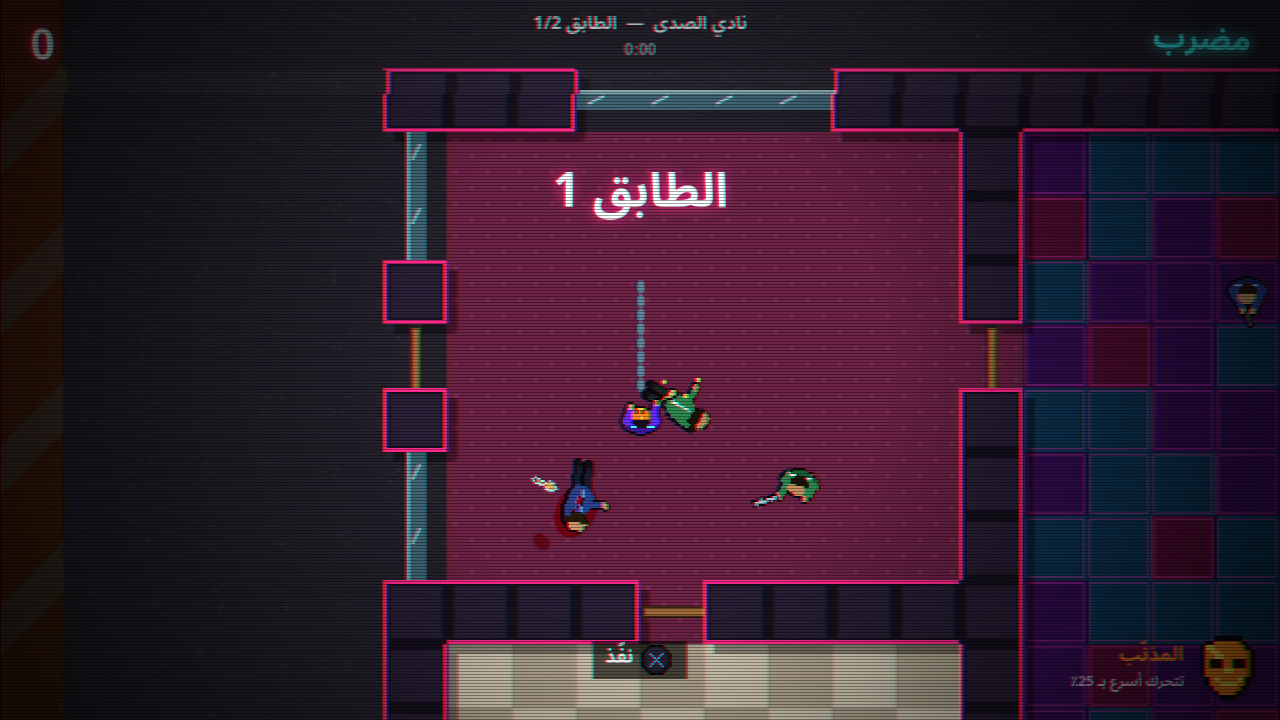
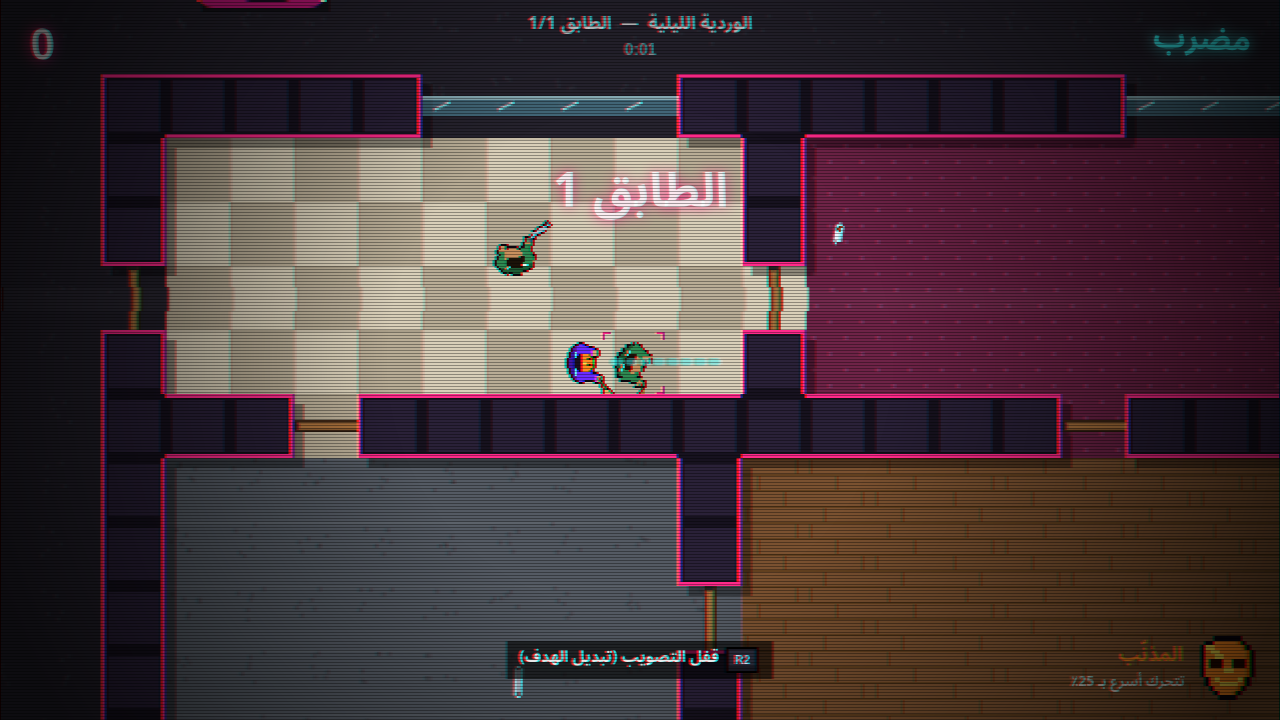
Classic PlayStation layout (R1 attack, L1 grab/throw, R2/□ lock-on, L2 look), lock-on, layout setting

diff --git a/js/ui.js b/js/ui.js
@@ -1,6 +1,6 @@
 // ===== UI: menus, HUD, post effects, main loop =====
 const SAVE_KEY = 'neonVendetta.save.v1';
-const Settings = { music: 0.7, sfx: 0.8, lang: 'ar', fx: true, shake: 1, aimAssist: true };
+const Settings = { music: 0.7, sfx: 0.8, lang: 'ar', fx: true, shake: 1, aimAssist: true, padLayout: 'classic' };
 const Save = { unlocked: 1, best: {}, mask: 0 };
 (function load() { try { const d = JSON.parse(localStorage.getItem(SAVE_KEY) || '{}'); if (d.settings) Object.assign(Settings, d.settings); if (d.unlocked) Save.unlocked = d.unlocked; if (d.best) Save.best = d.best; if (d.mask != null) Save.mask = d.mask; } catch (e) { } })();
 function persist() { try { localStorage.setItem(SAVE_KEY, JSON.stringify({ settings: Settings, unlocked: Save.unlocked, best: Save.best, mask: Save.mask })); } catch (e) { } }
@@ -63,13 +63,17 @@ function prompt(c, glyphs, label, cx, cy, size) {
   else { for (const g of glyphs) x += drawGlyph(c, g, x, cy) + 4; txt(c, label, x + gap, cy, size, '#fff', 'left'); }
 }
 const BINDS = {
-  pickup: { kb: ['E'], xbox: ['xX'], ps: ['pS'] }, execute: { kb: ['SPACE'], xbox: ['xA'], ps: ['pX'] },
-  restart: { kb: ['R'], xbox: ['xY'], ps: ['pT'] }, throwW: { kb: ['RMB'], xbox: ['LT'], ps: ['L2'] },
   confirm: { kb: ['ENTER'], xbox: ['xA'], ps: ['pX'] }, back: { kb: ['ESC'], xbox: ['xB'], ps: ['pO'] },
-  dodge: { kb: ['CTRL'], xbox: ['xB'], ps: ['pO'] }, map: { kb: ['TAB'], xbox: ['VIEW'], ps: ['TOUCHPAD'] },
-  pause: { kb: ['ESC'], xbox: ['START'], ps: ['OPTIONS'] }, attack: { kb: ['LMB'], xbox: ['RT'], ps: ['R2'] },
+  execute: { kb: ['SPACE'], xbox: ['xA'], ps: ['pX'] }, dodge: { kb: ['CTRL'], xbox: ['xB'], ps: ['pO'] },
+  map: { kb: ['TAB'], xbox: ['VIEW'], ps: ['TOUCHPAD'] }, pause: { kb: ['ESC'], xbox: ['START'], ps: ['OPTIONS'] },
+  // layout dependent
+  pickup: { kb: ['E'], xbox: ['xX'], ps: ['pS'], c_xbox: ['LB'], c_ps: ['L1'] },
+  throwW: { kb: ['RMB'], xbox: ['LT'], ps: ['L2'], c_xbox: ['LB'], c_ps: ['L1'] },
+  attack: { kb: ['LMB'], xbox: ['RT'], ps: ['R2'], c_xbox: ['RB'], c_ps: ['R1'] },
+  restart: { kb: ['R'], xbox: ['xY'], ps: ['pT'], c_xbox: ['xA'], c_ps: ['pX'] },
+  lock: { kb: ['F'], xbox: ['RS'], ps: ['R3'], c_xbox: ['RT'], c_ps: ['R2'] },
 };
-const BIND = new Proxy({}, { get: (_, k) => () => BINDS[k][Input.dev()] });
+const BIND = new Proxy({}, { get: (_, k) => () => { const d = Input.dev(), b = BINDS[k]; return (d !== 'kb' && Input.classic() && b['c_' + d]) || b[d]; } });
 
 // ---- post FX
 const FX = {
@@ -294,9 +298,10 @@ const UI = {
       { label: () => L('fx') + ':  ' + onoff(Settings.fx), adjust: tog('fx'), act: tog('fx') },
       { label: () => L('shake') + ':  ' + onoff(Settings.shake), adjust: tog('shake'), act: tog('shake') },
       { label: () => L('aimAssist') + ':  ' + onoff(Settings.aimAssist), adjust: tog('aimAssist'), act: tog('aimAssist') },
+      { label: () => L('padLayout') + ':  ' + (Settings.padLayout === 'alt' ? L('layoutAlt') : L('layoutClassic')), adjust: () => { Settings.padLayout = Settings.padLayout === 'alt' ? 'classic' : 'alt'; persist(); }, act: () => { Settings.padLayout = Settings.padLayout === 'alt' ? 'classic' : 'alt'; persist(); } },
       { label: () => L('back'), act: () => this.handleBack() },
     ];
-    menuList(c, items, 0, SW / 2, 190, 64, 28, t);
+    menuList(c, items, 0, SW / 2, 170, 58, 27, t);
     txt(c, Settings.lang === 'ar' ? '← → للتعديل' : '← → to adjust', SW / 2, 650, 16, '#aaa');
     if (Input.back()) { AudioSys.sfx('menuBack'); this.handleBack(); }
   },
@@ -324,7 +329,7 @@ const UI = {
   game(c, t, dt) {
     if (Input.pausePressed()) { AudioSys.sfx('menuBack'); this.go('pause'); this.drawGameFrozen(c); return; }
     if (Input.mapPressed() && G.status === 'play') { AudioSys.sfx('menuOk'); this.go('map'); this.drawGameFrozen(c); return; }
-    if (Input.restartPressed() && G.status !== 'complete') { G.restartFloor(); AudioSys.muffle(false); this.lastMuff = false; }
+    if ((Input.restartPressed() || (G.status === 'dead' && Input.bp(0))) && G.status !== 'complete') { G.restartFloor(); AudioSys.muffle(false); this.lastMuff = false; }
     if (G.status !== 'complete' || true) G.update(dt);
     G.draw(c, SW, SH);
     this.hud(c, t, dt);
@@ -368,6 +373,7 @@ const UI = {
     if (G.status === 'play' && p.alive && !p.exec) {
       const dn = G.nearestDowned(), pk = G.nearestPickup();
       if (dn) prompt(c, BIND.execute(), L('execute'), SW / 2, SH - 60);
+      else if (G.lock) prompt(c, BIND.lock(), L('c_lock'), SW / 2, SH - 60, 16);
       else if (pk) prompt(c, BIND.pickup(), (p.weapon ? L('swap') : L('pickup')) + ' — ' + L(pk.type), SW / 2, SH - 60);
     }
     if (G.cleared && G.status === 'play') {
@@ -455,16 +461,18 @@ const UI = {
     if (Input.navRight()) { this.ctrlView = views[(views.indexOf(this.ctrlView) + 1) % 3]; AudioSys.sfx('menuMove'); }
     if (Input.navLeft()) { this.ctrlView = views[(views.indexOf(this.ctrlView) + 2) % 3]; AudioSys.sfx('menuMove'); }
     const v = this.ctrlView, ar = Settings.lang === 'ar';
-    txt(c, L('controls') + ' — ' + (v === 'ps' ? L('ps') : v === 'xbox' ? L('xbox') : L('kb')), SW / 2, 48, 36, '#fff', 'center', '#ff2a8a');
+    txt(c, L('controls') + ' — ' + (v === 'ps' ? L('ps') : v === 'xbox' ? L('xbox') : L('kb')) + (v !== 'kb' ? '  (' + (Input.classic() ? L('layoutClassic') : L('layoutAlt')) + ')' : ''), SW / 2, 48, 32, '#fff', 'center', '#ff2a8a');
     txt(c, L('viewToggle'), SW / 2, 86, 16, '#aaa');
     if (v === 'ps') this.psDiagram(c, t);
     else {
       const rows = v === 'kb'
         ? [['c_move', 'W A S D'], ['c_aim', 'MOUSE'], ['c_attack', 'LMB'], ['c_throw', 'RMB / Q'], ['c_pick', 'E / RMB'], ['c_exec', 'SPACE'], ['c_restart', 'R'], ['c_dodge', 'CTRL / C'], ['c_look', 'SHIFT'], ['c_map', 'TAB / M'], ['c_pause', 'ESC / P']]
-        : [['c_move', 'LS'], ['c_aim', 'RS'], ['c_attack', 'RT'], ['c_throw', 'LT'], ['c_pick', 'xX'], ['c_exec', 'xA'], ['c_restart', 'xY'], ['c_dodge', 'xB'], ['c_look', 'RB / LB'], ['c_map', 'VIEW'], ['c_pause', 'START']];
+        : Input.classic()
+          ? [['c_move', 'LS'], ['c_aim', 'RS'], ['c_attack', 'RB'], ['c_grab', 'LB'], ['c_lock', 'RT / xX'], ['c_look', 'LT'], ['c_exec', 'xA'], ['c_restart', 'xY'], ['c_dodge', 'xB'], ['c_map', 'VIEW'], ['c_pause', 'START']]
+          : [['c_move', 'LS'], ['c_aim', 'RS'], ['c_attack', 'RT'], ['c_throw', 'LT'], ['c_pick', 'xX'], ['c_exec', 'xA'], ['c_restart', 'xY'], ['c_dodge', 'xB'], ['c_look', 'RB / LB'], ['c_lock', 'RS'], ['c_map', 'VIEW'], ['c_pause', 'START']];
       const colA = ar ? 820 : 460, colB = ar ? 460 : 820;
       rows.forEach((r, i) => {
-        const y = 130 + i * 46;
+        const y = 126 + i * 43;
         c.fillStyle = i % 2 ? 'rgba(255,255,255,0.04)' : 'rgba(255,42,138,0.07)'; c.fillRect(240, y - 21, 800, 42);
         txt(c, L(r[0]), colA, y, 21, '#fff');
         const parts = v === 'kb' ? [r[1]] : r[1].split(' / '); const total = parts.reduce((s, p) => s + glyphW(c, p) + 8, 0); let x = colB - total / 2;
@@ -497,10 +505,14 @@ const UI = {
     // face symbols on the diagram
     const face = [['pT', 64, 12], ['pO', 68, 16], ['pX', 64, 20], ['pS', 60, 16]];
     for (const [g, x, y] of face) { const [sx, sy] = at(x, y); c.save(); c.imageSmoothingEnabled = false; c.drawImage(psButtonCanvas(g), sx - 15, sy - 15 + 3, 30, 30); c.restore(); }
-    const lab = [
-      ['L2', 21, 3, 'c_throw', 'L', 120], ['L1', 21, 7, 'c_look', 'L', 165], ['LS', 31, 28, 'c_move', 'L', 520], ['TOUCHPAD', 41, 13, 'c_map', 'T', 0],
-      ['R2', 61, 3, 'c_attack', 'R', 120], ['R1', 61, 7, 'c_look', 'R', 165], ['pT', 64, 12, 'c_restart', 'R', 225], ['pO', 68, 16, 'c_dodge', 'R', 285],
-      ['pX', 64, 20, 'c_exec', 'R', 345], ['pS', 60, 16, 'c_pick', 'R', 405], ['OPTIONS', 56, 11, 'c_pause', 'R', 465], ['RS', 51, 28, 'c_aim', 'R', 520],
+    const lab = Input.classic() ? [
+      ['L2', 21, 3, 'c_look', 'L', 120], ['L1', 21, 7, 'c_grab', 'L', 170], ['LS', 31, 28, 'c_move', 'L', 520], ['TOUCHPAD', 41, 13, 'c_map', 'T', 0],
+      ['R2', 61, 3, 'c_lock', 'R', 120], ['R1', 61, 7, 'c_attack', 'R', 170], ['pT', 64, 12, 'c_restart', 'R', 225], ['pO', 68, 16, 'c_dodge', 'R', 285],
+      ['pX', 64, 20, 'c_execR', 'R', 345], ['pS', 60, 16, 'c_lock', 'R', 405], ['OPTIONS', 56, 11, 'c_pause', 'R', 465], ['RS', 51, 28, 'c_aim', 'R', 520],
+    ] : [
+      ['L2', 21, 3, 'c_throw', 'L', 120], ['L1', 21, 7, 'c_look', 'L', 170], ['LS', 31, 28, 'c_move', 'L', 520], ['TOUCHPAD', 41, 13, 'c_map', 'T', 0],
+      ['R2', 61, 3, 'c_attack', 'R', 120], ['R1', 61, 7, 'c_look', 'R', 170], ['pT', 64, 12, 'c_restart', 'R', 225], ['pO', 68, 16, 'c_dodge', 'R', 285],
+      ['pX', 64, 20, 'c_exec', 'R', 345], ['pS', 60, 16, 'c_pick', 'R', 405], ['OPTIONS', 56, 11, 'c_pause', 'R', 465], ['RS', 51, 28, 'c_aimLock', 'R', 520],
     ];
     c.strokeStyle = 'rgba(63,252,255,0.6)'; c.lineWidth = 2;
     for (const [g, gx, gy, key, side, ly] of lab) {

diff --git a/js/game.js b/js/game.js
@@ -33,7 +33,7 @@ const G = {
     const H = this.H = rows.length, W = this.W = rows[0].length;
     this.tiles = new Uint8Array(W * H); this.style = new Array(W * H).fill('.');
     this.doors = []; this.enemies = []; this.pickups = []; this.bullets = []; this.thrown = []; this.particles = []; this.floaters = [];
-    this.combo = 0; this.comboTimer = 0; this.cleared = false; this.status = 'play'; this.shake = 0; this.flash = 0;
+    this.combo = 0; this.comboTimer = 0; this.cleared = false; this.lock = null; this.status = 'play'; this.shake = 0; this.flash = 0;
     this.floorStart = { score: this.score, kills: this.kills };
     this.outdoorStart = false;
     const nstyle = (x, y) => { for (const [dx, dy] of [[-1, 0], [1, 0], [0, -1], [0, 1], [-1, -1], [1, 1]]) { const r = rows[y + dy]; const c = r && r[x + dx]; if (c && FLOORS.includes(c)) return c; } return '.'; };
@@ -401,6 +401,8 @@ const G = {
         if (Input.pickupPressed()) this.pickUp();
         if (right) { if (p.weapon) this.throwWeapon(); else this.pickUp(); }
         if (Input.throwPressed()) { if (p.weapon) this.throwWeapon(); }
+        if (Input.grabPressed()) { if (p.weapon) this.throwWeapon(); else this.pickUp(); }
+        if (Input.lockPressed()) this.cycleLock();
         if (Input.executePressed()) { const d = this.nearestDowned(); if (d) this.startExec(d); }
         if (!p.exec && (Input.attackHeld() || Input.attackPressed())) this.playerAttack();
       }
@@ -432,7 +434,24 @@ const G = {
     for (const f of this.floaters) { f.life -= dt; f.y -= 24 * dt; }
     this.floaters = this.floaters.filter(f => f.life > 0);
   },
+  lockCandidates() {
+    const p = this.player, out = [];
+    for (const e of this.enemies) {
+      if (e.state === 'dead') continue; const d = Math.hypot(e.x - p.x, e.y - p.y); if (d > 460) continue;
+      if (!this.clearLine(p.x, p.y, e.x, e.y)) continue;
+      out.push({ e, df: Math.abs(angDiff(Math.atan2(e.y - p.y, e.x - p.x), p.ang)) });
+    }
+    return out.sort((a, b) => a.df - b.df).map(o => o.e);
+  },
+  cycleLock() {
+    const c = this.lockCandidates();
+    if (!c.length) { this.lock = null; return; }
+    if (!this.lock || !c.includes(this.lock)) this.lock = c[0];
+    else { const i = c.indexOf(this.lock); this.lock = i + 1 < c.length ? c[i + 1] : null; }
+    AudioSys.sfx(this.lock ? 'menuMove' : 'menuBack'); if (this.lock) Input.rumble(0, 0.25, 40);
+  },
   updateAim(dt) {
+    if (this.lock && (this.lock.state === 'dead' || Math.hypot(this.lock.x - this.player.x, this.lock.y - this.player.y) > 520 || (Input.mode === 'kb' && Input.mouse.moved && !Input.k('KeyF')))) this.lock = null;
     const p = this.player, look = Input.lookHeld();
     let offX = 0, offY = 0;
     if (Input.mode === 'pad') {
@@ -440,9 +459,10 @@ const G = {
       let target = null;
       if (mag > 0.3) target = Math.atan2(ay, ax);
       else { const mv = Input.moveVec(); if (Math.hypot(mv.x, mv.y) > 0.3) target = Math.atan2(mv.y, mv.x); }
+      if (this.lock) target = Math.atan2(this.lock.y - p.y, this.lock.x - p.x);
       if (target !== null && p.alive && !p.exec) {
         // light aim assist: snap toward nearest visible enemy near stick direction
-        if (Settings.aimAssist) {
+        if (Settings.aimAssist && !this.lock) {
           let best = null, bd = 0.32;
           for (const e of this.enemies) {
             if (e.state === 'dead' || e.state === 'down') continue;
@@ -461,7 +481,7 @@ const G = {
       const sw = 1280, sh = 720;
       const mx = (Input.mouse.x - sw / 2) / ZOOM + this.cam.x, my = (Input.mouse.y - sh / 2) / ZOOM + this.cam.y;
       this.aimWorld = { x: mx, y: my };
-      if (p.alive && !p.exec) p.ang = Math.atan2(my - p.y, mx - p.x);
+      if (p.alive && !p.exec) p.ang = this.lock ? Math.atan2(this.lock.y - p.y, this.lock.x - p.x) : Math.atan2(my - p.y, mx - p.x);
       const sx = (Input.mouse.x - sw / 2) / ZOOM, sy = (Input.mouse.y - sh / 2) / ZOOM;
       const k = look ? 0.9 : 0.3; offX = sx * k; offY = sy * k;
     }

diff --git a/js/i18n.js b/js/i18n.js
@@ -20,6 +20,7 @@ const STR = {
     padConnected: 'تم توصيل يد التحكم', padDisconnected: 'انفصلت يد التحكم',
     theEnd: 'انتهت الليلة', thanks: 'شكراً إنك لعبت', boss: 'الزعيم',
     tip1: 'ضربة وحدة تكفي... لك وله.', tip2: 'افتح الباب بقوة عشان تطيّح اللي وراه.', tip3: 'صوت الرصاص يجيب الكل.',
+    c_grab: 'التقاط / رمي السلاح', c_lock: 'قفل التصويب (تبديل الهدف)', c_execR: 'إعدام / إعادة بعد الموت', c_aimLock: 'تصويب (R3 قفل)', padLayout: 'ترتيب أزرار اليد', layoutClassic: 'كلاسيكي', layoutAlt: 'بديل',
     c_dodge: 'تدحرج / تفادي', c_map: 'شاشة القناع والخريطة', masks: 'اختر القناع', mask: 'القناع', maskLocked: 'مقفل — خلّص مراحل أكثر عشان تفتحه',
     newMask: 'قناع جديد انفتح!', map: 'الخريطة', viewToggle: '◄ ► لتغيير العرض', choose: 'اختيار', ps: 'يد بلايستيشن', xbox: 'يد إكس بوكس', close: 'إغلاق',
     creditsText: 'لعبة أصلية مستوحاة من ألعاب الأكشن السريعة من منظور علوي. كل الرسوم والموسيقى مولّدة بالكود.',
@@ -44,6 +45,7 @@ const STR = {
     padConnected: 'CONTROLLER CONNECTED', padDisconnected: 'CONTROLLER DISCONNECTED',
     theEnd: 'THE NIGHT IS OVER', thanks: 'THANKS FOR PLAYING', boss: 'BOSS',
     tip1: 'One hit is enough... for you and for them.', tip2: 'Slam doors open to knock down whoever is behind.', tip3: 'Gunshots bring everyone running.',
+    c_grab: 'Pick up / Throw', c_lock: 'Lock-on (cycle targets)', c_execR: 'Execute / restart when dead', c_aimLock: 'Aim (R3 lock-on)', padLayout: 'PAD LAYOUT', layoutClassic: 'CLASSIC', layoutAlt: 'ALTERNATE',
     c_dodge: 'Dodge roll', c_map: 'Mask & map screen', masks: 'CHOOSE YOUR MASK', mask: 'MASK', maskLocked: 'LOCKED — clear more levels to unlock',
     newMask: 'NEW MASK UNLOCKED!', map: 'MAP', viewToggle: '◄ ► change view', choose: 'SELECT', ps: 'PLAYSTATION PAD', xbox: 'XBOX PAD', close: 'CLOSE',
     creditsText: 'An original top-down action game. All art and music are generated by code.',

diff --git a/js/input.js b/js/input.js
@@ -71,10 +71,16 @@ const Input = {
     const l = Math.hypot(x, y); if (l > 1) { x /= l; y /= l; }
     return { x, y };
   },
-  attackHeld() { return this.mouse.down[0] || this.b(7); },
-  attackPressed() { return this.mouse.pr[0] || this.bp(7); },
+  classic() { return Settings.padLayout !== 'alt'; },
+  // pad buttons per layout (standard mapping): 0 X/A, 1 O/B, 2 []/X, 3 /\/Y, 4 L1/LB, 5 R1/RB, 6 L2/LT, 7 R2/RT, 8 create/view, 9 options/start, 10 L3, 11 R3, 16 home, 17 touchpad
+  padAttack() { return this.classic() ? 5 : 7; },
+  attackHeld() { return this.mouse.down[0] || this.b(this.padAttack()); },
+  attackPressed() { return this.mouse.pr[0] || this.bp(this.padAttack()); },
   rightPressed() { return this.mouse.pr[2]; },
-  throwPressed() { return this.bp(6) || this.kpr('KeyQ'); },
+  grabPressed() { return this.classic() && this.bp(4); }, // classic L1: pick up when empty-handed, throw when holding
+  throwPressed() { return this.kpr('KeyQ') || (!this.classic() && this.bp(6)); },
+  pickupPressed() { return this.kpr('KeyE') || (!this.classic() && this.bp(2)); },
+  lockPressed() { return this.kpr('KeyF') || (this.classic() ? (this.bp(7) || this.bp(2)) : this.bp(11)); },
   dodgePressed() { return this.bp(1) || this.kpr('ControlLeft', 'KeyC'); },
   mapPressed() { return this.bp(17) || this.bp(8) || this.kpr('Tab', 'KeyM'); },
   dev() { return this.mode === 'pad' ? this.padType : 'kb'; },
@@ -86,9 +92,8 @@ const Input = {
       else if (this.pad.hapticActuators && this.pad.hapticActuators[0]) this.pad.hapticActuators[0].pulse(Math.max(strong, weak), ms);
     } catch (e) { }
   },
-  pickupPressed() { return this.kpr('KeyE') || this.bp(2); },
   executePressed() { return this.kpr('Space') || this.bp(0); },
   restartPressed() { return this.kpr('KeyR') || this.bp(3); },
   pausePressed() { return this.kpr('Escape', 'KeyP') || this.bp(9) || this.bp(16); },
-  lookHeld() { return this.k('ShiftLeft') || this.k('ShiftRight') || this.b(5) || this.b(4); },
+  lookHeld() { return this.k('ShiftLeft') || this.k('ShiftRight') || (this.classic() ? this.b(6) : (this.b(5) || this.b(4))); },
 };

diff --git a/js/render.js b/js/render.js
@@ -78,6 +78,8 @@ G.draw = function (screenC, sw, sh) {
     if (e.windup > 0 || (e.kind === 'boss' && e.tele > 0)) { c.fillStyle = '#ff2a2a'; c.fillRect(Math.round(e.x) - 1, Math.round(e.y - e.r - 14), 2, 6); c.fillRect(Math.round(e.x) - 1, Math.round(e.y - e.r - 6), 2, 2); }
     if (e.kind === 'boss' && e.stun > 0) { c.fillStyle = '#ffe14a'; for (let i = 0; i < 4; i++) { const a = t * 5 + i * 1.6; c.fillRect(Math.round(e.x + Math.cos(a) * 18), Math.round(e.y + Math.sin(a) * 8 - 24), 2, 2); } }
   }
+  if (this.lock && this.lock.state !== 'dead') { const L2 = this.lock, r = (L2.r || 10) + 6 + Math.round(Math.sin(t * 8)), x = Math.round(L2.x), y = Math.round(L2.y); c.fillStyle = '#ff2a8a';
+    for (const [sx, sy] of [[-1, -1], [1, -1], [-1, 1], [1, 1]]) { c.fillRect(x + sx * r - (sx > 0 ? 3 : 0), y + sy * r, 4, 1); c.fillRect(x + sx * r, y + sy * r - (sy > 0 ? 3 : 0), 1, 4); } }
   if (p.alive) {
     const s = humanGrid('player', p.weapon ? p.weapon.type : null, p, pm, 1.35);
     if (p.roll > 0) drawSpr(c, charCanvas(s.g), p.x, p.y, p.rollAng + (1 - p.roll / 0.34) * Math.PI * 2, false, 0.8);
